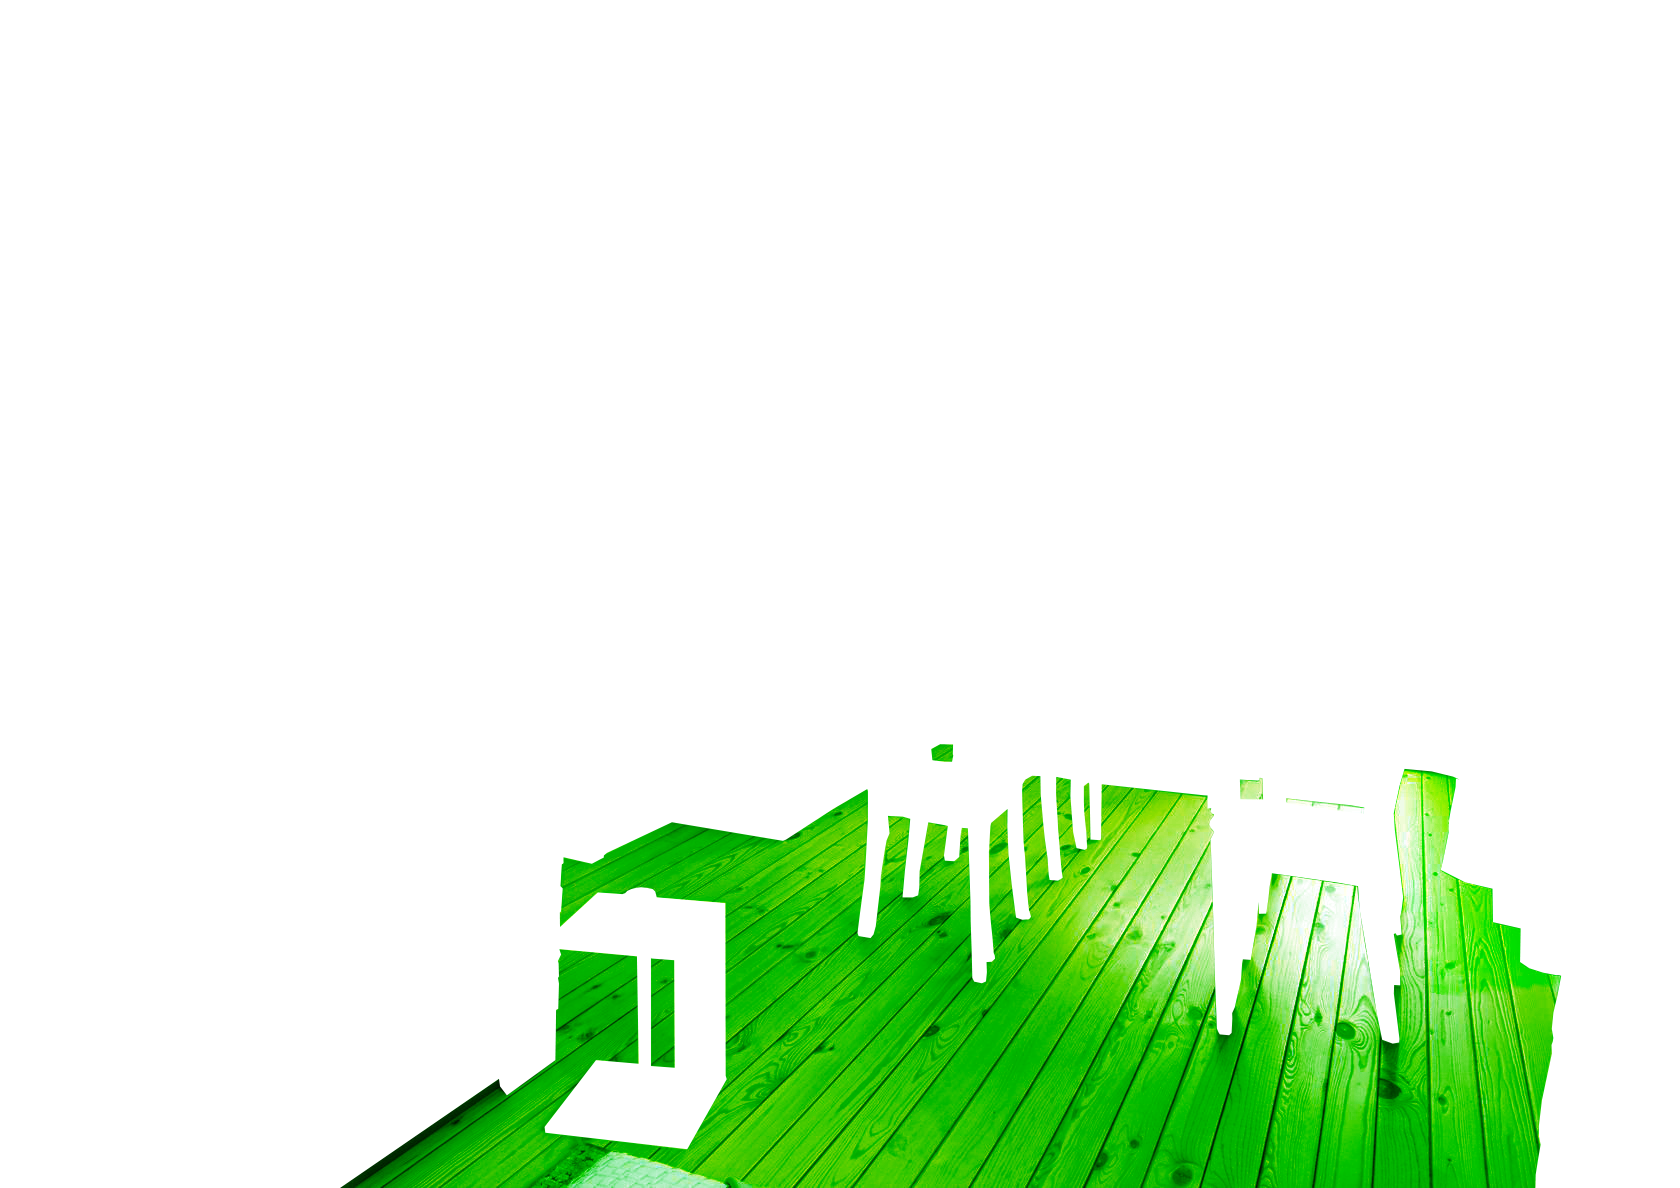
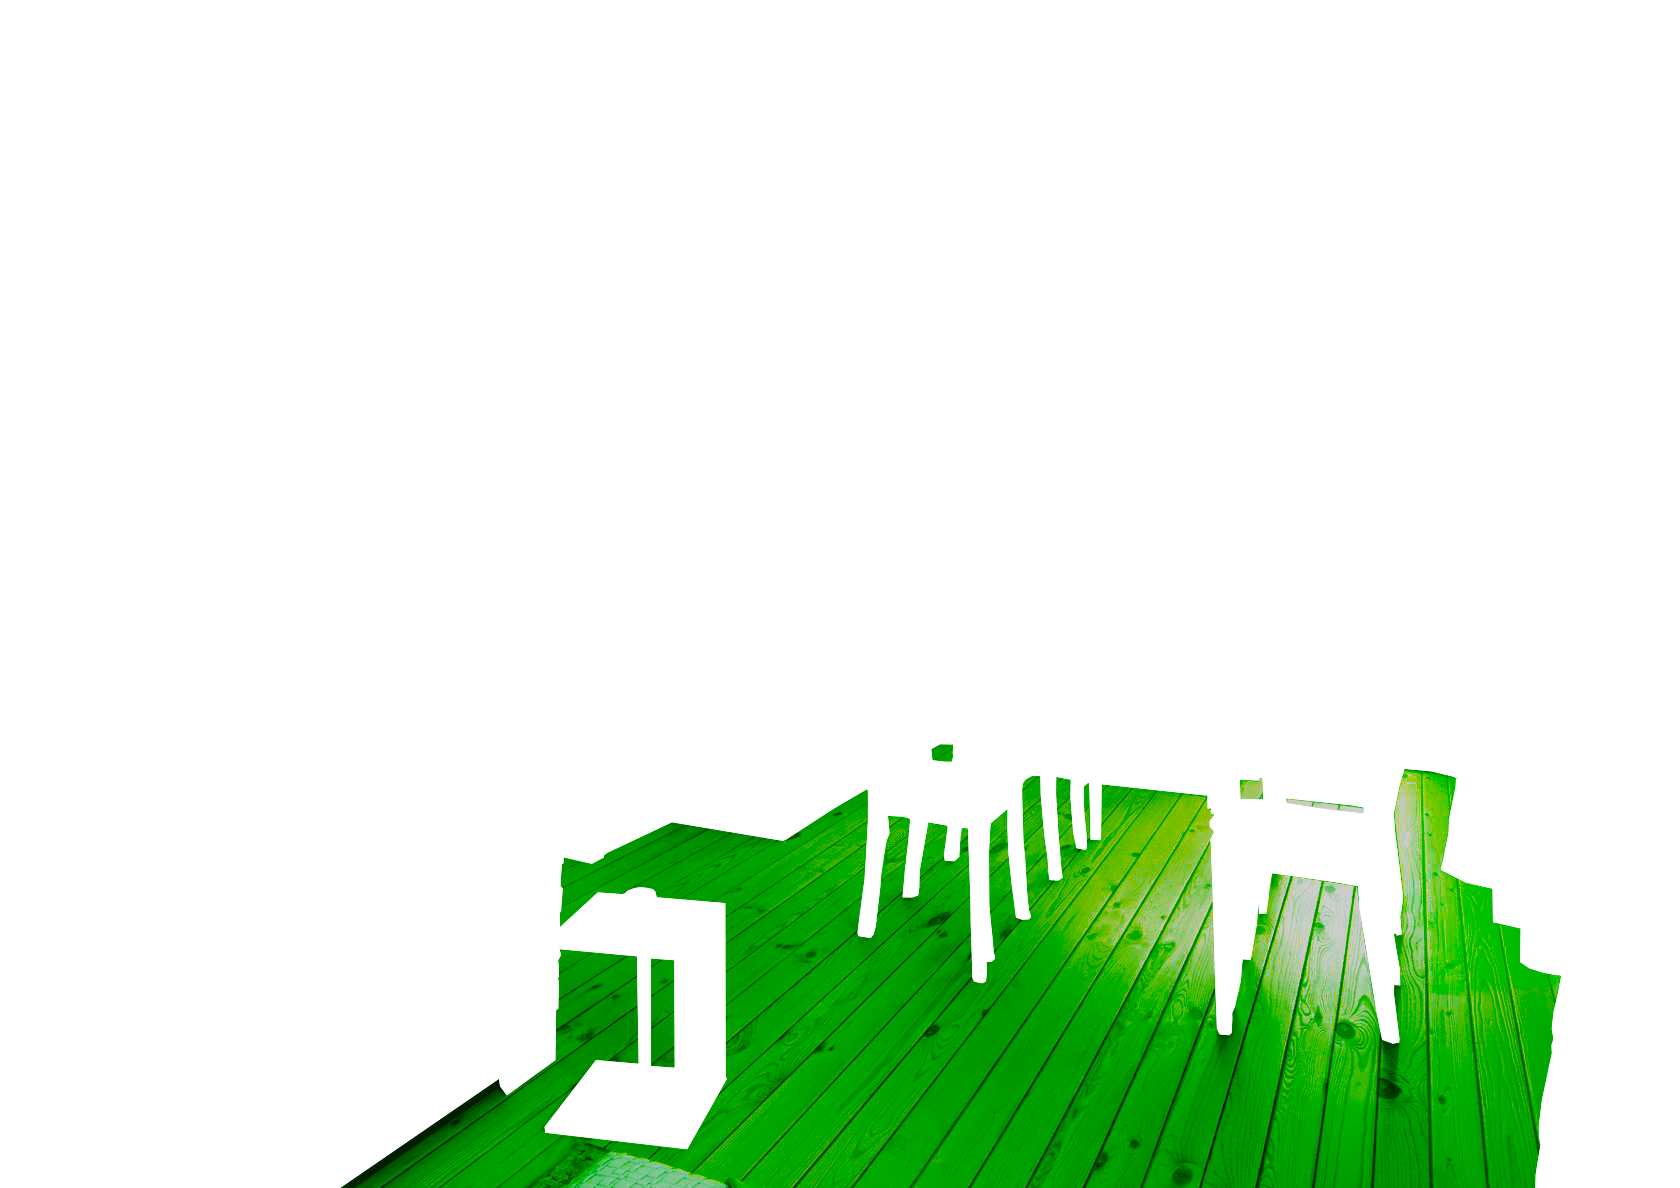
добавлен выбор варианта интернрьера

Changed region(s): [[0.2167, 0.6229, 0.9286, 1.0], [0.5571, 0.6229, 0.5881, 0.654]]

diff --git a/src/Components/Color-chooser/Components/main-layers/main-layers.tsx b/src/Components/Color-chooser/Components/main-layers/main-layers.tsx
@@ -1,3 +1,4 @@
+/// рабочая версия.
 import styles from "./main-layers.module.scss";
 import { CoverButtons } from "../cover-buttons/Cover-buttons";
 import { ColorButtons } from "../color-buttons/color-buttons";
@@ -32,6 +33,9 @@ export const MainLayers = ({
     roof: "none",
     roof_lining: "none",
     ceiling: "none",
+    ceiling2: "none",
+    doors: "none",
+    windows: "none",
   });
 
   const prevActiveLayerRef = useRef<string>(activeLayer);
@@ -82,6 +86,9 @@ export const MainLayers = ({
       roof: "none",
       roof_lining: "none",
       ceiling: "none",
+      ceiling2: "none",
+      doors: "none",
+      windows: "none",
     });
   };
 
@@ -150,3 +157,183 @@ export const MainLayers = ({
     </div>
   );
 };
+
+
+
+
+// эксперементальная версия
+// import styles from "./main-layers.module.scss";
+// import { CoverButtons } from "../cover-buttons/Cover-buttons";
+// import { ColorButtons } from "../color-buttons/color-buttons";
+// import { useEffect, useRef, useState } from "react";
+// import { calculateHslDifference } from "../../../Utils/color-converter";
+// import PaintPicker from '../paint-picker/paint-picker'; // Импортируем PaintPicker
+
+
+// interface Layer {
+//   name: string;
+//   image: string;
+//   buttonName: string;
+// }
+
+// export const MainLayers = ({
+//   layers,
+//   title,
+// }: {
+//   layers: Layer[];
+//   title: string;
+// }) => {
+//   const [activeLayer, setActiveLayer] = useState<string>("");
+//   const [activeColor, setActiveColor] = useState<string>("hsl(0, 0%, 74%)");
+//   const [currentColor, setCurrentColor] = useState<string>("none");
+//   const [currentColorNum, setCurrentColorNum] = useState<string>("none");
+//   const [animatePulse, setAnimatePulse] = useState<boolean>(false);
+//   const [doublePaint, setDoublePaint] = useState<boolean>(false);
+//   const [stylesState, setStylesState] = useState<{ [key: string]: string }>({
+//       walls: "none",
+//       floor: "none",
+//       facing: "none",
+//       balcony: "none",
+//       outside_walls: "none",
+//       roof: "none",
+//       roof_lining: "none",
+//       ceiling: "none",
+//   });
+
+//   const prevActiveLayerRef = useRef<string>(activeLayer);
+
+//   const handlerLayerChange = (layer: string) => {
+//       setActiveLayer(layer);
+//   };
+
+//   const handlerDoublePaint = () => {
+//       setDoublePaint(!doublePaint);
+//   };
+
+//   const handColorChange = (color: string, colorNum: string) => {
+//       setActiveColor(color);
+//       setCurrentColor(color);
+//       setCurrentColorNum(colorNum);
+//   };
+
+//   useEffect(() => {
+//       const newColor = calculateHslDifference(activeColor, doublePaint);
+
+//       if (activeColor !== "hsl(0, 0%, 74%)") {
+//           setStylesState((prev) => ({
+//               ...prev,
+//               [activeLayer]: newColor,
+//           }));
+//           setActiveColor("hsl(0, 0%, 74%)");
+//       }
+
+//       if (prevActiveLayerRef.current !== activeLayer) {
+//           setAnimatePulse(true);
+//       } else {
+//           setAnimatePulse(false);
+//       }
+
+//       prevActiveLayerRef.current = activeLayer;
+//   }, [activeColor, activeLayer, doublePaint]);
+
+//   const clearButtons = () => {
+//       setActiveLayer("");
+//       setActiveColor("hsl(0, 0%, 74%)");
+//       setStylesState({
+//           walls: "none",
+//           floor: "none",
+//           facing: "none",
+//           balcony: "none",
+//           outside_walls: "none",
+//           roof: "none",
+//           roof_lining: "none",
+//           ceiling: "none",
+//       });
+//   };
+
+//   const getTargetColor = () => {
+//       // Получите целевой цвет для PaintPicker
+//       return stylesState[activeLayer] !== "none" 
+//              ? stylesState[activeLayer] 
+//              : activeColor;
+//   };
+
+//   return (
+//       <div className={styles.mainLayers_wrapper}>
+//           <div className={styles.mainLayers_block}>
+//               <div className={styles.mainLayers_text}>
+//                   <h2>{title}</h2>
+//                   <p>
+//                       <span className={styles.green_text}>Шаг 1</span> Выберите объект для покраски
+//                   </p>
+//                   <p className={styles.double_paint}>
+
+//                   Для покраски в 2 слоя нажмите на кнопку "&times;2" и выберите цвет
+//                     </p>
+//                     <CoverButtons
+//                         onButtonClick={handlerLayerChange}
+//                         currentColor={currentColor}
+//                         currentColorNum={currentColorNum}
+//                         layers={layers}
+//                         onDoublePaintClick={handlerDoublePaint}
+//                     />
+//                     <button
+//                         onClick={clearButtons}
+//                         className={styles.mainLayers_button_clear}
+//                     >
+//                         Очистить цвета
+//                     </button>
+//                 </div>
+//                 <div className={styles.mainLayers_container}>
+//                     {layers.map(({ name, image }) => {
+//                         let layerClass = "green-layer";
+
+//                         if (name === "inside" || name === "outside") {
+//                             layerClass = "base-layer";
+//                         }
+
+//                         return (
+//                             <img
+//                                 key={name}
+//                                 className={`${styles[layerClass]} ${
+//                                     activeLayer === name && animatePulse
+//                                         ? styles.animate_pulse
+//                                         : ""
+//                                 }`}
+//                                 src={image}
+//                                 alt={name}
+//                                 style={{
+//                                     zIndex: stylesState[name] !== "none" ? 3 : 1,
+//                                     filter: stylesState[name] !== "none" ? stylesState[name] : "none",
+//                                     transition: !animatePulse ? "all 0.5s ease-in-out" : "none",
+//                                 }}
+//                             />
+//                         );
+//                     })}
+//                 </div>
+//             </div>
+//             <div className={styles.mainLayers_button_block}>
+//                 <h2>
+//                     <span className={styles.green_text}>Шаг 2</span> Выберите тип и цвет краски
+//                 </h2>
+//                 <ColorButtons onColorClick={handColorChange} />
+//                 {/* Добавляем PaintPicker */}
+//                 <h2>Выберите цвет с помощью палитры</h2>
+//                 <PaintPicker
+//                     initialColor={activeColor} 
+//                     targetColor={getTargetColor()} 
+//                     onUpdate={(newStyles : string) => {
+//                         setStylesState((prev) => ({
+//                             ...prev,
+//                             [activeLayer]: newStyles,
+//                         }));
+//                     }}
+//                 />
+//             </div>
+//         </div>
+//     );
+// };
+
+
+
+

diff --git a/src/App.tsx b/src/App.tsx
@@ -1,25 +1,36 @@
-import React from "react";
+import React, { useState } from "react";
 import "./App.css";
 import inside from "./Components/Color-chooser/Components/Assets/inside2/inside.jpg";
-// import facing from "./Components/Color-chooser/Components/Assets/inside/inside-covering-green-facing.png";
+import inside2 from "./Components/Color-chooser/Components/Assets/inside/inside.jpeg";
+import facing from "./Components/Color-chooser/Components/Assets/inside/inside-covering-green-facing.png";
 import walls from "./Components/Color-chooser/Components/Assets/inside2/inside-covering-green-walls.png";
+import walls2 from "./Components/Color-chooser/Components/Assets/inside/inside-covering-green-walls.png";
 import floor from "./Components/Color-chooser/Components/Assets/inside2/inside-covering-green-floor.png";
+import floor2 from "./Components/Color-chooser/Components/Assets/inside/inside-covering-green-floor.png";
 import ceiling from "./Components/Color-chooser/Components/Assets/inside2/inside-covering-green-ceiling.png";
-import { MainLayers } from "./Components/Color-chooser/Components/main-layers/main-layers";
 import outside from "../src/Components/Color-chooser/Components/Assets/outside/House-main-layer.jpg";
 import balcony from "../src/Components/Color-chooser/Components/Assets/outside/balcony-green.png";
 import outsideWalls from "../src/Components/Color-chooser/Components/Assets/outside/outside-walls-green.png";
 import roof from "../src/Components/Color-chooser/Components/Assets/outside/Roof-green.png";
 import roofLining from "../src/Components/Color-chooser/Components/Assets/outside/Roof-lining-green.png";
+import { MainLayers } from "./Components/Color-chooser/Components/main-layers/main-layers";
 import { CountingCall } from "./Components/Color-chooser/Components/Counting-call/сounting-call";
 
 const interiorLayers = [
   { name: "inside", buttonName: "", image: inside },
-  // { name: "facing", buttonName: "Наличники", image: facing },
   { name: "walls", buttonName: "Стены", image: walls },
   { name: "floor", buttonName: "Пол", image: floor },
   { name: "ceiling", buttonName: "Потолок", image: ceiling },
 ];
+
+const interiorLayersTwo = [
+  { name: "inside", buttonName: "", image: inside2 },
+  { name: "facing", buttonName: "Наличники", image: facing },
+  { name: "walls", buttonName: "Стены", image: walls2 },
+  { name: "floor", buttonName: "Пол", image: floor2 },
+];
+
+
 
 const exteriorLayers = [
   { name: "outside", buttonName: "", image: outside },
@@ -30,10 +41,17 @@ const exteriorLayers = [
 ];
 
 function App() {
+  const [interiorSelected, setInteriorSelected] = useState<string>("1");
+  
   return (
     <div className="App">
       <MainLayers layers={exteriorLayers} title="- Наружные работы" />
-      <MainLayers layers={interiorLayers} title="- Внутренние работы" />
+     <select className="interior-select" name="interior" value={interiorSelected} onChange={(e) => setInteriorSelected(e.target.value)}>
+       <option value="1">Вариант интерьера 1</option>
+       <option value="2">Вариант интерьера 2</option>
+     </select>
+     {interiorSelected === "1" ? <MainLayers layers={interiorLayers} title="- Внутренние работы" /> :
+      <MainLayers layers={interiorLayersTwo} title="- Внутренние работы" />}
       <CountingCall />
        </div>
   );

diff --git a/src/App.css b/src/App.css
@@ -4,9 +4,8 @@
   align-items: center;
   min-width: 390px;
   margin: 40px 183.5px;
- padding-top: 0 32px;
+  padding-top: 0 32px;
 }
-
 
 @media (max-width: 550px) {
   .App {
@@ -19,4 +18,39 @@
   }
 }
 
+.interior-select {
+  width: 220px;
+  height: 40px;
+  border-radius: 10px;
+  border: 1px solid #1c1c1c;
+  background-color: #1c1c1c;
+  color: #6dbd8b;
+  font-size: 16px;
+  font-weight: bold;
+  padding: 5px;
+  margin: 10px;
+  transition: all 0.5s ease-in-out;
+}
 
+.interior-select:focus {
+  outline: none;
+  border-color: #6dbd8b;
+}
+
+.interior-select option {
+  border: none;
+  background-color: #1c1c1c;
+  width: 220px;
+
+  color: #6dbd8b;
+  font-size: 16px;
+  border-radius: 10px;
+  font-weight: bold;
+}
+
+option:hover {
+  border: none;
+  background-color: #6dbd8b;
+  /* box-shadow: 0 0 10px 100px #1882a8 inset; */
+  color: #1c1c1c;
+}

diff --git a/src/Components/Color-chooser/Components/paint-picker/paint-picker.js b/src/Components/Color-chooser/Components/paint-picker/paint-picker.js
@@ -1,0 +1,14 @@
+import tinycolor from 'tinycolor2';
+
+export const getUpdatedColor = (initialColor, targetColor) => {
+    const initialHsv = tinycolor(initialColor).toHsv();
+    const targetHsv = tinycolor(targetColor).toHsv();
+
+    // Пример изменения цвета: изменяем оттенок, насыщенность и яркость
+    // здесь можно изменять формулу по желанию
+    const newH = (initialHsv.h + (targetHsv.h - initialHsv.h)) % 360;
+    const newS = Math.min(1, initialHsv.s + (targetHsv.s - initialHsv.s));
+    const newV = Math.min(1, initialHsv.v + (targetHsv.v - initialHsv.v));
+
+    return tinycolor({ h: newH, s: newS, v: newV }).toHslString(); // Возвращаем в формате HSL
+};

diff --git a/src/Components/Color-chooser/Components/cover-buttons/Cover-buttons.tsx b/src/Components/Color-chooser/Components/cover-buttons/Cover-buttons.tsx
@@ -52,7 +52,7 @@ export const CoverButtons = ({
   }, [currentColor, currentColorNum]); // вернуть activeLayer в массив зависимостей и разобраться с обновлением состояния кнопок, остальное работает
 
   const filteredLayers = layers.filter(
-    (layer) => layer.name !== "inside" && layer.name !== "outside"
+    (layer) => layer.name !== "inside" && layer.name !== "outside" && layer.name !== "inside2"
   );
 
   // console.log("обновление строки и должны быть новые значения");
